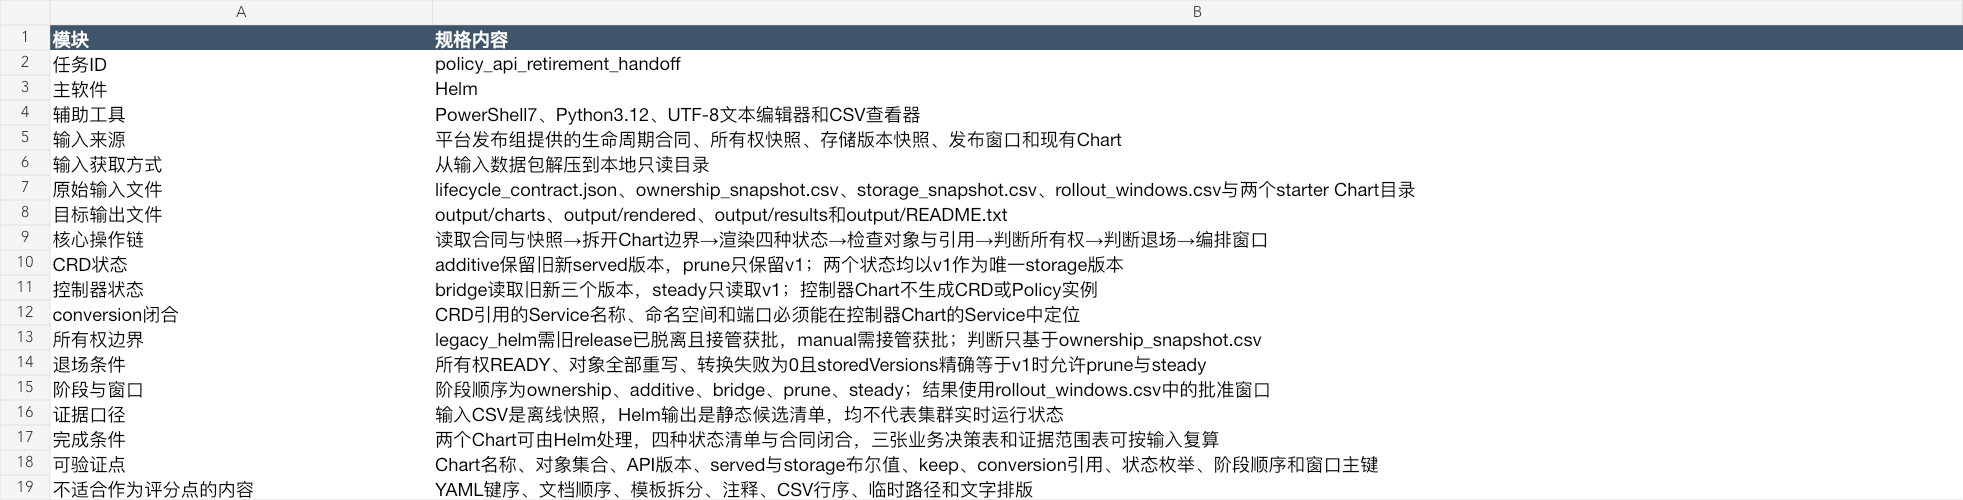
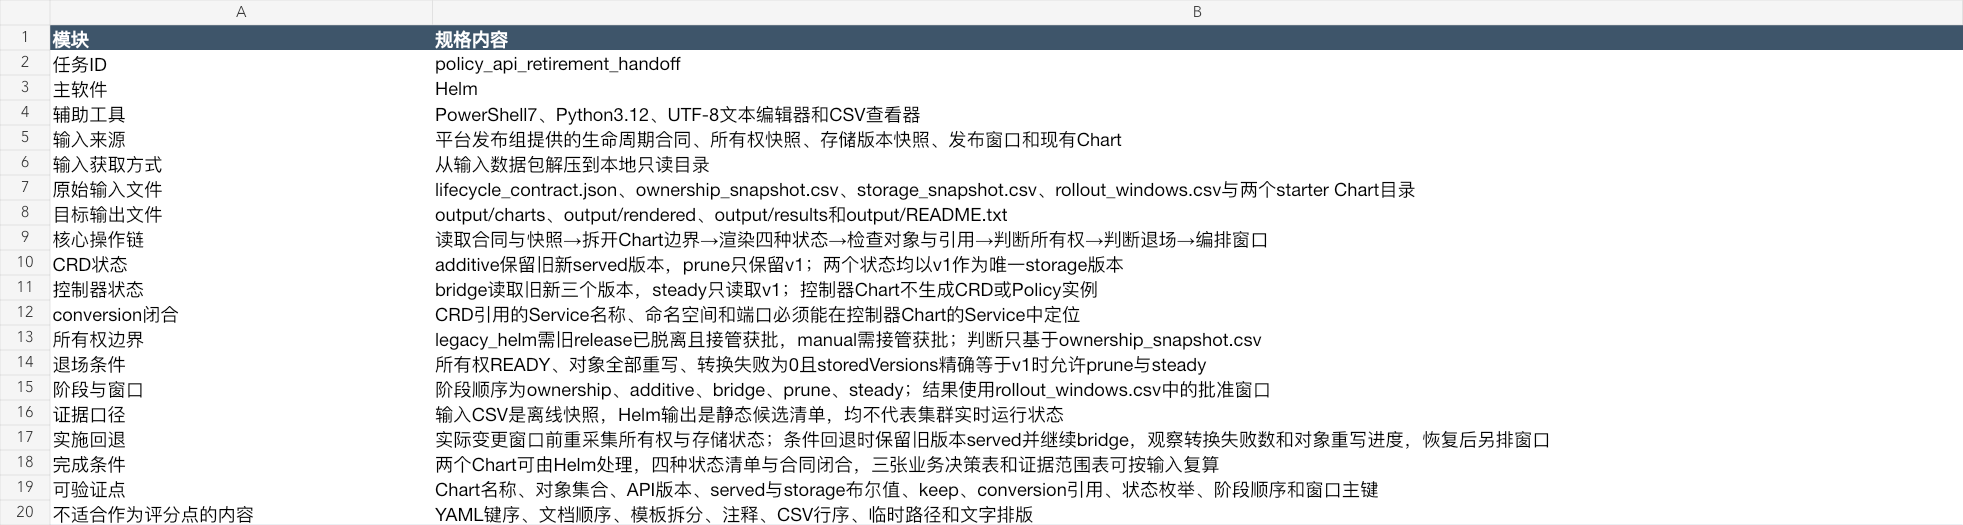
Complete business rollout boundaries

Changed region(s): [[0.0, 0.03, 1.0, 1.0]]

diff --git a/qa/finalize_humanizer.py b/qa/finalize_humanizer.py
@@ -1,21 +1,34 @@
 from __future__ import annotations
 
 import json
+import hashlib
 from pathlib import Path
 
 
 ROOT = Path(__file__).resolve().parents[1]
 qa = ROOT / "task/.qa"
 qa.mkdir(parents=True, exist_ok=True)
+artifact_names = [
+    "任务名称.txt", "任务概要.txt", "任务prompt.txt", "关键动作.txt", "评分表.txt", "环境依赖.txt",
+    "相关专业软件的关键步骤.txt", "task_fields.json", "输入数据包.zip", "reference.zip",
+    "关键标准答案.xlsx", "任务规格转化.xlsx", "ALE-专家数据作业表_q2394.csv"
+]
 review = {
     "skill": "humanizer-zh",
     "result": "PASS",
     "reviewed_scopes": [
         "任务名称", "任务概要", "任务prompt", "关键动作", "评分表", "环境依赖",
-        "相关专业软件的关键步骤", "输入材料说明", "Reference说明", "关键标准答案全部自然语言", "任务规格全部自然语言"
+        "软件步骤", "输入材料中的自然语言", "Reference中的用户可见文字",
+        "关键标准答案工作簿全部自然语言", "任务规格工作簿全部自然语言"
     ],
-    "scores": {"直接性": 10, "节奏": 9, "信任度": 9, "真实性": 9, "精炼度": 9},
-    "total": 46,
+    "scores": {"直接性": 10, "节奏": 9, "信任度": 9, "真实性": 9, "精炼度": 9, "total": 46},
+    "minimum_total": 45,
+    "notes": [
+        "任务开场直接交代Policy API退场与release边界，没有填充性背景或宣传语。",
+        "Prompt四段长度有变化，动词和交付句围绕本题业务，不复用同批Helm题的钩子或配置迁移骨架。",
+        "离线快照与静态渲染的证据边界写清，删除了验收脚本、双目录和固定实现处方口吻。",
+        "评分字段保持客观结构，但题面只保留平台同事开工需要的条件与交付。"
+    ],
     "manual_findings": {
         "promotional_language": "未发现",
         "mechanical_three_part_structure": "未发现",
@@ -31,6 +44,9 @@ review = {
         "unsupported_numbers": "端口、对象计数和窗口均可定位到输入合同或快照",
         "consumer_closure": "Chart、决策表和发布计划均交给平台发布评审人使用",
         "reasoning_chain": "合同与快照连接Chart渲染、所有权判断、退场闸门和窗口计划"
+    },
+    "reviewed_artifacts_sha256": {
+        name: hashlib.sha256((ROOT / "task" / name).read_bytes()).hexdigest() for name in artifact_names
     }
 }
 (qa / "humanizer-review.json").write_text(json.dumps(review, ensure_ascii=False, indent=2) + "\n", encoding="utf-8")

diff --git a/implementation/build_delivery.py b/implementation/build_delivery.py
@@ -246,7 +246,7 @@ def main() -> None:
         write_csv(results / "lint_results.csv", lint_rows, ["chart", "status"])
         (output / "README.txt").write_text(
             "本目录供策略平台发布评审人检查旧API版本退场候选包。charts保存两个独立Chart，rendered保存四种状态的Helm静态清单，results保存对象清单、所有权处理、退场判断和发布计划。\n\n"
-            "所有权、storedVersions、对象重写和发布窗口结论均来自输入中的离线快照。Helm执行只证明Chart能够按给定取值生成候选对象，不代表控制器、conversion webhook或集群变更已经运行。后续实际变更仍需发布人员在目标窗口重新采集状态并审批。\n",
+            "所有权、storedVersions、对象重写和发布窗口结论均来自输入中的离线快照。Helm执行只证明Chart能够按给定取值生成候选对象，不代表控制器、conversion webhook或集群变更已经运行。后续实际变更需在目标窗口重新采集状态并审批。所有权或存储条件回退时保留旧版本served并继续bridge，观察conversion失败数与对象重写进度，条件恢复后另排窗口。\n",
             encoding="utf-8",
         )
     except Exception:
